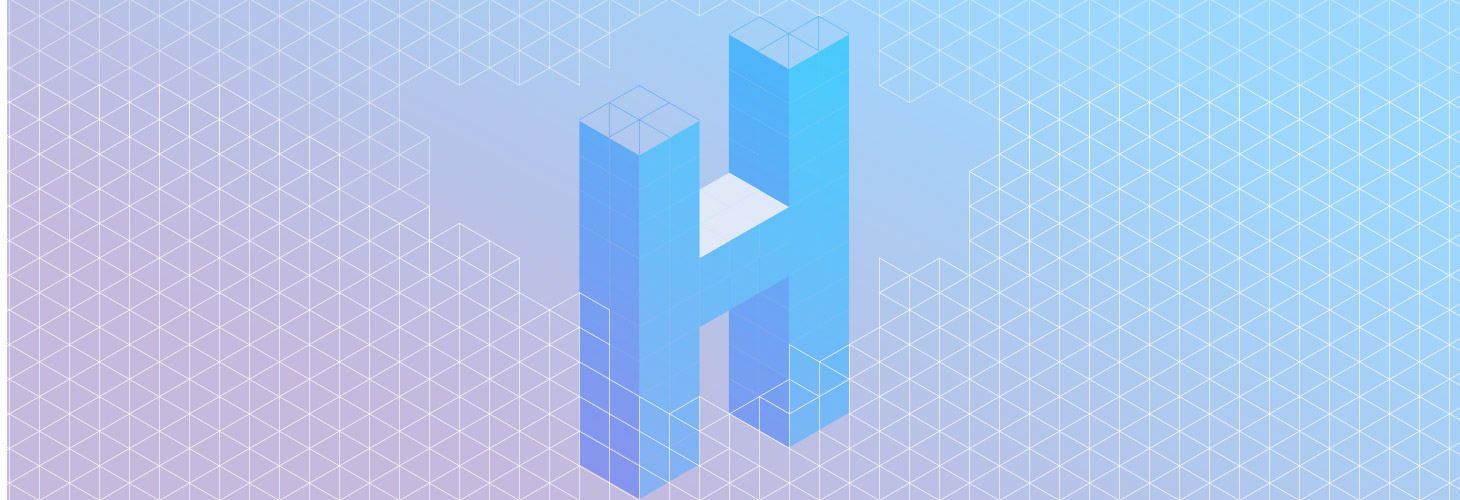
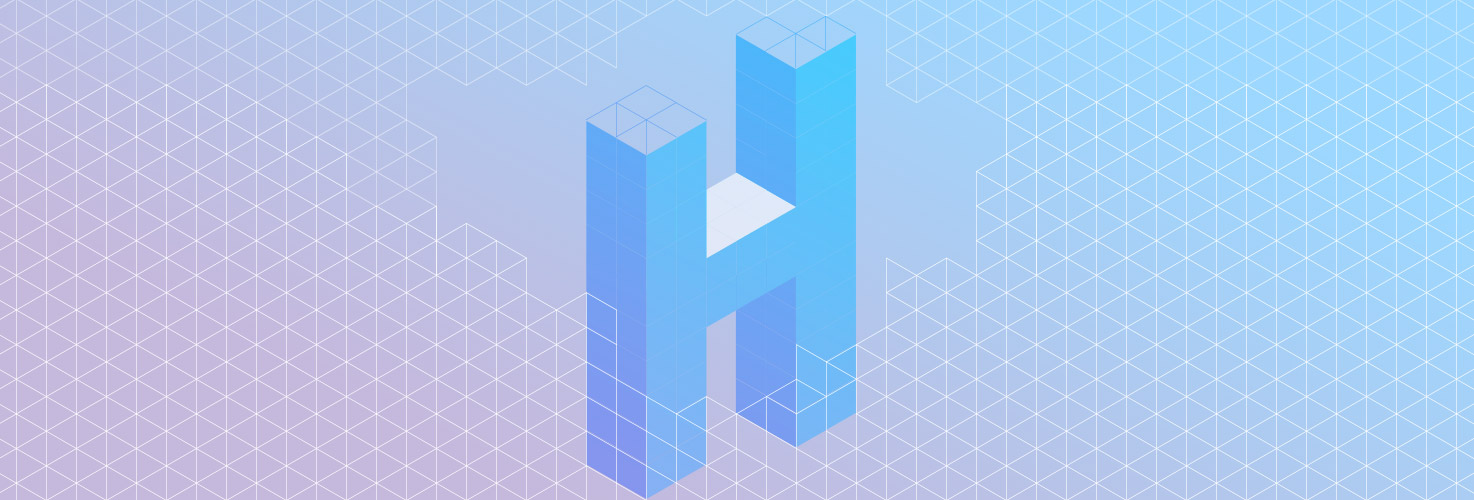
fix repsonsive css slider

diff --git a/source/stylesheets/hashicorp.css b/source/stylesheets/hashicorp.css
@@ -483,8 +483,8 @@ nav li:hover {
   animation: scale_slide 0.3s ease-out 1;
 }
 .slider-mask #slider .slide.hashicorp {
-  background: url(/images/home-hero/hashicorp.jpg) no-repeat center bottom;
-  background-size: cover;
+  background-image: url(/images/home-hero/hashicorp.jpg);
+  background-position: center center;
 }
 .slider-mask #slider .slide.hashicorp h1 {
   /*span{
@@ -492,7 +492,7 @@ nav li:hover {
 
 						&:after {
 						  background: linear-gradient(to right top, #48b4fb 50%, transparent 50%) !important;
-						}	
+						}
 	    			}*/
 }
 .slider-mask #slider .slide.vagrant {
@@ -501,14 +501,15 @@ nav li:hover {
 .slider-mask #slider .slide.vagrant h1 {
   /*span{
 	    				background-color: #48b4fb;
-						
+
 						&:after {
 						  background: linear-gradient(to right top, #48b4fb 50%, transparent 50%) !important;
-						}		    				
+						}
 	    			}*/
 }
 .slider-mask #slider .slide.packer {
   background: url(/images/home-hero/packer.jpg) no-repeat center bottom;
+  background-color: #e7f7f5;
 }
 .slider-mask #slider .slide.packer h1 span {
   background-color: #43d193 !important;
@@ -529,6 +530,7 @@ nav li:hover {
   position: absolute;
   bottom: 24px;
   right: 32px;
+  width: 500px;
   text-align: right;
 }
 .slider-mask #slider .slide .hero-content h1 {
@@ -565,7 +567,7 @@ nav li:hover {
   height: 28px;
   font-size: 13px;
   line-height: 24px;
-  height: 24px;
+  height: auto;
   margin-bottom: 0px;
   text-align: right;
 }
@@ -575,7 +577,7 @@ nav li:hover {
   font-weight: 500;
   color: #202020;
   background-color: #fff;
-  text-align: center;
+  text-align: right;
   padding: 0px 12px;
 }
 .slider-mask #slider .slidesjs-navigation {
@@ -587,7 +589,7 @@ nav li:hover {
   height: 80px;
   z-index: 2000;
   background-color: rgba(0, 0, 0, 0.2);
-  background-image: url('../images/slider-arrows.png');
+  background-image: url(/images/slider-arrows.png);
   background-repeat: no-repeat;
   text-indent: -9999px;
   white-space: nowrap;
@@ -1060,8 +1062,8 @@ article.product-item .product-image span.image {
   display: inline-block;
   width: 660px;
   height: 500px;
-  background: url(../images/products-sprite.png) 0 0 no-repeat;
-  background: -webkit-image-set(url(../images/products-sprite.png) 1x, url(../images/products-sprite@2x.png) 2x);
+  background: url(/images/products-sprite.png) 0 0 no-repeat;
+  background: -webkit-image-set(url(/images/products-sprite.png) 1x, url(/images/products-sprite@2x.png) 2x);
 }
 @media (max-width: 979px) {
   body.products {
@@ -1141,6 +1143,44 @@ footer .hashi-logo-monochrome {
   margin: 30px auto 30px -30px;
 }
 @media (max-width: 480px) {
+  .slider-mask #slider .slidesjs-pagination {
+    right: 10px;
+    left: auto;
+    bottom: 8px;
+  }
+  .slider-mask #slider .slide {
+    -webkit-transition: none;
+    -moz-transition: none;
+    -ms-transition: none;
+    -o-transition: none;
+    transition: none;
+    -webkit-animation: none;
+    -moz-animation: none;
+    -ms-animation: none;
+    -o-animation: none;
+    animation: none;
+  }
+  .slider-mask #slider .slide .hero-content {
+    right: 0;
+    bottom: 50px;
+    width: auto;
+  }
+  .slider-mask #slider .slide .hero-content h1 {
+    margin-right: 20px;
+  }
+  .slider-mask #slider .slide .hero-content h2 {
+    background-color: rgba(255, 255, 255, 0.9);
+    padding: 0 10px;
+    margin: 0px 10px 8px 10px;
+  }
+  .slider-mask #slider .slide .hero-content h2 span {
+    display: inline;
+    padding: 0;
+    background-color: transparent;
+  }
+  .slider-mask #slider .slide .hero-content .button {
+    margin-right: 10px;
+  }
   nav {
     position: absolute;
     height: auto;
@@ -1220,11 +1260,6 @@ footer .hashi-logo-monochrome {
   .inner-page .inner-page-header h1 {
     padding-top: 50px !important;
   }
-  .hero {
-    height: 400px;
-    background-size: 200%;
-    background-position: bottom center;
-  }
   .hero .hero-content {
     padding-top: 125px;
   }
@@ -1280,6 +1315,16 @@ footer .hashi-logo-monochrome {
   }
 }
 @media (max-width: 767px) {
+  body.index {
+    padding-left: 0px;
+    padding-right: 0px;
+  }
+  body.index .article-summaries article,
+  body.index section.product,
+  body.index section.customers {
+    margin-right: 0;
+    margin-left: 0;
+  }
   nav a.hashi-logo {
     background: url(/images/hashi_icon.png) no-repeat 0 0 !important;
     height: 70px !important;
@@ -1303,13 +1348,6 @@ footer .hashi-logo-monochrome {
   }
   .product.vagrant ul li {
     margin-bottom: 40px;
-  }
-  footer,
-  .inner-page-header,
-  section.hero,
-  .full-width {
-    margin-right: -20px;
-    margin-left: -20px;
   }
   .article-summaries article,
   section.product,

diff --git a/source/stylesheets/less/_media-queries.less b/source/stylesheets/less/_media-queries.less
@@ -1,5 +1,56 @@
 @media (max-width: 480px) {
 
+	.slider-mask{
+		//height: @hero-height - 100px;
+		#slider {
+			//height: @hero-height - 100px;
+			.slidesjs-pagination{
+				right: 10px;
+				left: auto;
+				bottom: 8px;
+			}		
+				
+			.slide{
+			    -webkit-transition: none;
+			    -moz-transition: none;
+			    -ms-transition: none;
+			    -o-transition: none;
+			    transition: none;
+			    -webkit-animation: none;
+			    -moz-animation: none;
+			    -ms-animation: none;
+			    -o-animation: none;
+			    animation: none;				
+
+	    		.hero-content{
+	    			right: 0;
+	    			bottom: 50px;
+	    			width: auto;
+
+	    			h1{
+	    				margin-right: 20px;
+	    			}
+
+		    		h2{
+		    			background-color: rgba( 255, 255, 255, .9);
+		    			padding: 0 10px;
+		    			margin: 0px 10px 8px 10px;
+
+		    			span{
+		    				display: inline;
+		    				padding: 0;
+		    				background-color: transparent;
+		    			}
+		    		}
+
+		    		.button{
+		    			margin-right: 10px;
+		    		}    			
+	    		}
+	    	}
+	    }
+	}	
+
 		nav {
 		position: absolute;
 		height: auto;
@@ -104,9 +155,9 @@
 	}
 
 	.hero {
-	height: @hero-height - 100px;
-	background-size: 200%;
-	background-position: bottom center;
+	//height: @hero-height - 100px;
+	//background-size: 200%;
+	//background-position: bottom center;
 
 		.hero-content {
 		padding-top: (@hero-height - @hero-content-height) / 2;
@@ -212,6 +263,19 @@
 
 @media (max-width: 767px) {
 
+
+	body.index {
+	    padding-left: 0px;
+	    padding-right: 0px;
+
+		.article-summaries article,
+		section.product,
+		section.customers {
+		margin-right: 0;
+		margin-left: 0;
+		}
+	}
+
 	nav {
 
 
@@ -255,14 +319,6 @@
 				}
 			}
 		}
-	}
-
-	footer,
-	.inner-page-header,
-	section.hero,
-	.full-width {
-	margin-right: -20px;
-	margin-left: -20px;
 	}
 
 	.article-summaries article,

diff --git a/source/stylesheets/less/_slider.less b/source/stylesheets/less/_slider.less
@@ -125,8 +125,10 @@
 		    animation: scale_slide 0.3s ease-out 1;
 
     		&.hashicorp{
-    			background: url(/images/home-hero/hashicorp.jpg) no-repeat center bottom;
-	    		background-size: cover;
+    			background-image: url(/images/home-hero/hashicorp.jpg);
+    			//background-repeat: no-repeat;
+    			background-position: center center;
+
 	    		h1{
 	    			/*span{
 	    				background-color: #48b4fb;
@@ -155,6 +157,7 @@
 
     		&.packer{
     			background: url(/images/home-hero/packer.jpg) no-repeat center bottom;
+    			background-color: #e7f7f5;
 	    		h1{
 	    			span{
 	    				background-color: #43d193 !important;
@@ -185,6 +188,7 @@
     			position: absolute;
     			bottom: 24px;
     			right: 32px;
+    			width: 500px;
     			text-align: right;
 
 	    		h1{
@@ -221,7 +225,7 @@
 		    			height: 28px;
 		    			font-size: 13px;
 		    			line-height: 24px;
-		    			height: 24px;
+		    			height: auto;
 		    			margin-bottom: 0px;
 						text-align: right;
 		    		}
@@ -231,7 +235,7 @@
 		    			font-weight: 500;
 		    			color: #202020;
 		    			background-color: #fff;
-		    			text-align: center;
+		    			text-align: right;
 		    			padding: 0px 12px;
 	    			}
 	    		}

diff --git a/source/javascripts/hashicorp.js b/source/javascripts/hashicorp.js
@@ -27,6 +27,28 @@ $(document).ready(function(){
 (function ($, global) {
   var HSHC = global.HSH || {};
 
+  HSHC.Utils =  (function () {
+    return {
+    //check for mobile user agents
+      isMobile : (function(){
+               if( navigator.userAgent.match(/Android/i)
+               || navigator.userAgent.match(/webOS/i)
+               || navigator.userAgent.match(/iPhone/i)
+               //|| navigator.userAgent.match(/iPad/i)
+               || navigator.userAgent.match(/iPod/i)
+               || navigator.userAgent.match(/BlackBerry/i)
+               || navigator.userAgent.match(/Windows Phone/i)
+               ){
+                      return true;
+                }
+               else {
+                  return false;
+                }
+      })() 
+    }
+
+  }());
+
   HSHC.Slider = (function () {
     return {
 
@@ -50,6 +72,11 @@ $(document).ready(function(){
       addEventListeners: function(){
         var _this = this;
 
+        console.log(HSHC.Utils.isMobile);
+
+        if(HSHC.Utils.isMobile)
+          return;
+        
         _this.ui.$doc.scroll(function() {
           var top = _this.ui.$doc.scrollTop(),
               speedAdj = (top*0.6),
